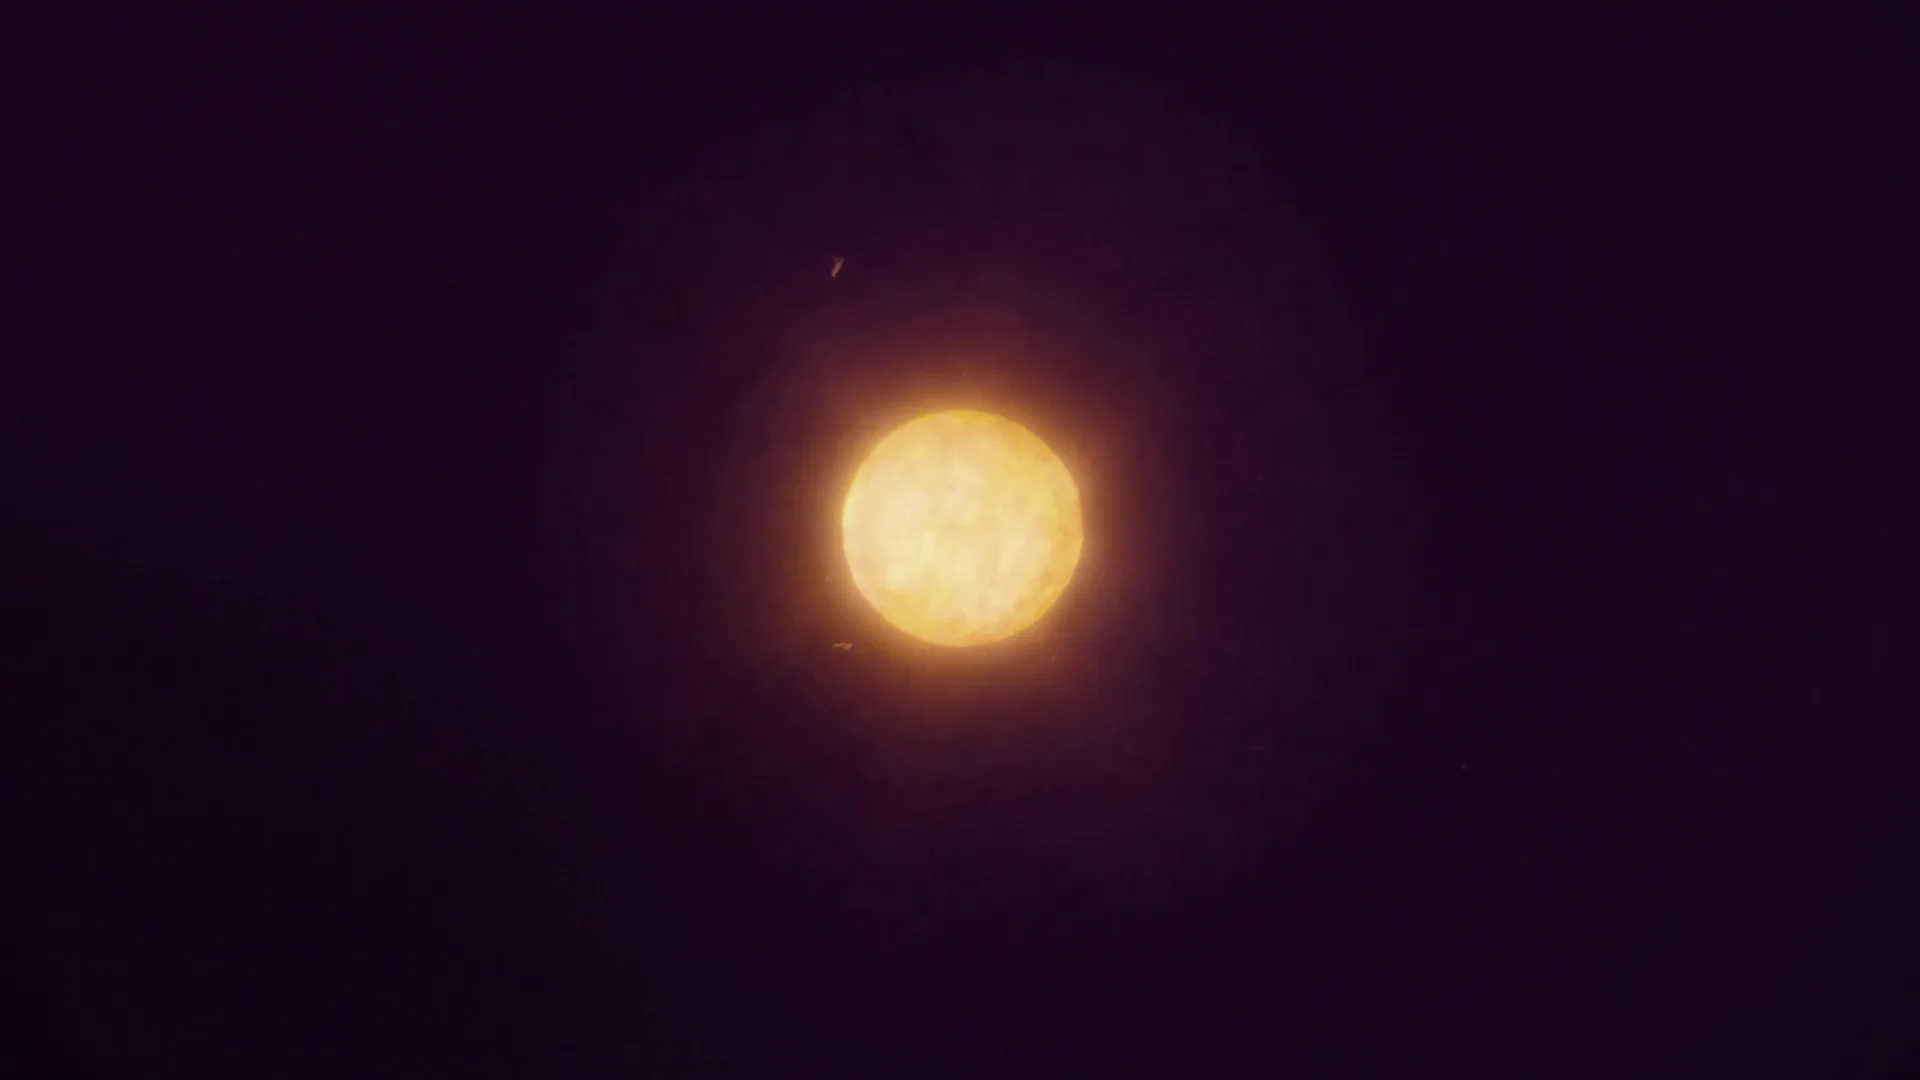
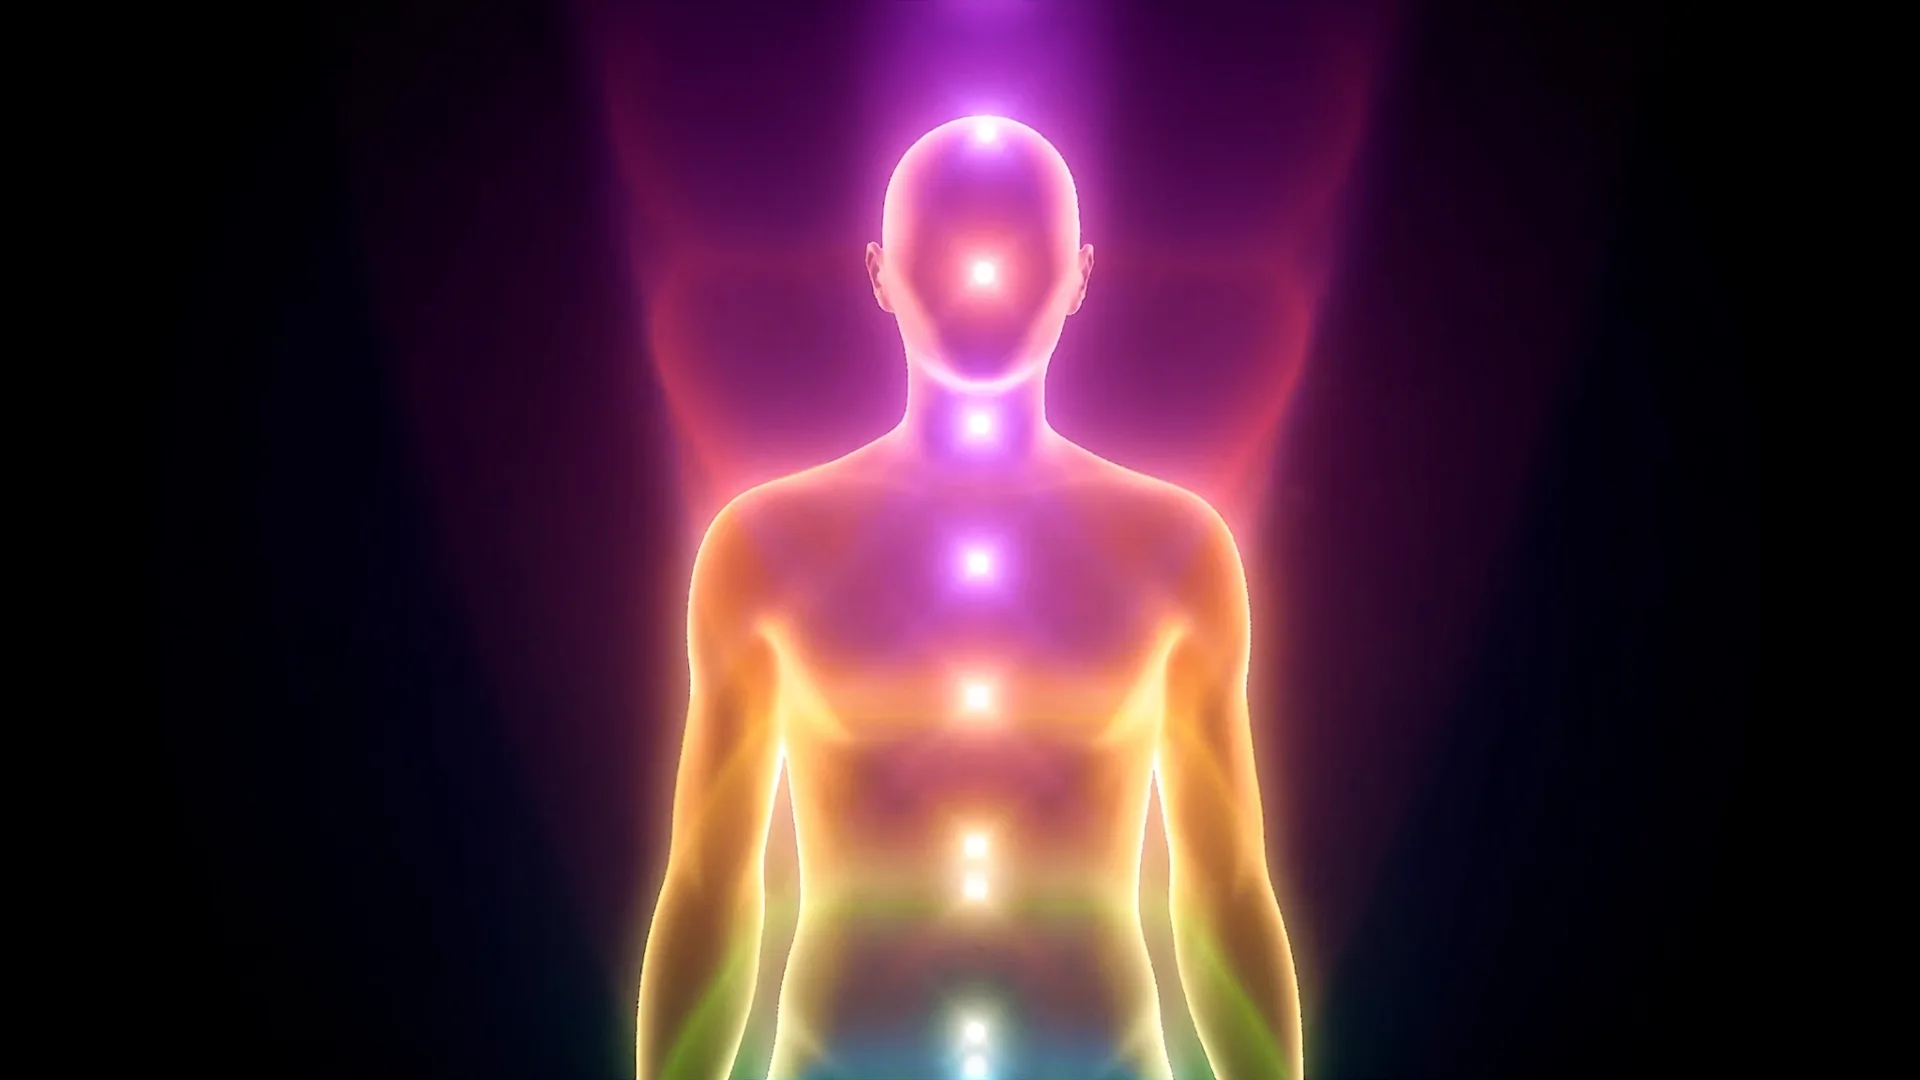
Add luminous humanoid energy figures to the key scenes
- Origin: a radiant figure of violet-white light on a starfield
- Identity: a human energy body with glowing centers along the spine, which is
  the right visual language for the Human Design layer
- Connection Index: two particle-light figures joined by threads of light
- Figure scenes get their own grading and a lighter scrim on the right, so the
  light bodies actually read while the left text column stays legible

diff --git a/index.html b/index.html
@@ -777,6 +777,23 @@
     linear-gradient(90deg, rgba(2,2,4,.94) 0%, rgba(2,2,4,.66) 32%, rgba(2,2,4,.34) 65%, rgba(2,2,4,.5) 100%),
     linear-gradient(0deg, rgba(2,2,4,.82), rgba(2,2,4,.22) 40%, rgba(2,2,4,.34)) !important;
 }
+
+/* Figure scenes are already dark-backed, so the global .42 grade would crush the
+   light bodies. They only need a light touch to sit under white type. */
+#intro .scene-media img,
+#identity-section .scene-media img,
+#compat-reveal .scene-media img{
+  filter:brightness(1.02) saturate(1.14) contrast(1.03);
+}
+/* Text lives in the left column, so the scrim keeps its weight there and opens up
+   on the right to let the light body actually read. */
+#intro .scene-media::after,
+#identity-section .scene-media::after,
+#compat-reveal .scene-media::after{
+  background:
+    linear-gradient(90deg, rgba(2,2,4,.93) 0%, rgba(2,2,4,.58) 28%, rgba(2,2,4,.06) 58%, rgba(2,2,4,.20) 100%),
+    linear-gradient(0deg, rgba(2,2,4,.70), rgba(2,2,4,0) 38%, rgba(2,2,4,.16)) !important;
+}
 </style>
 </head>
 <body>
